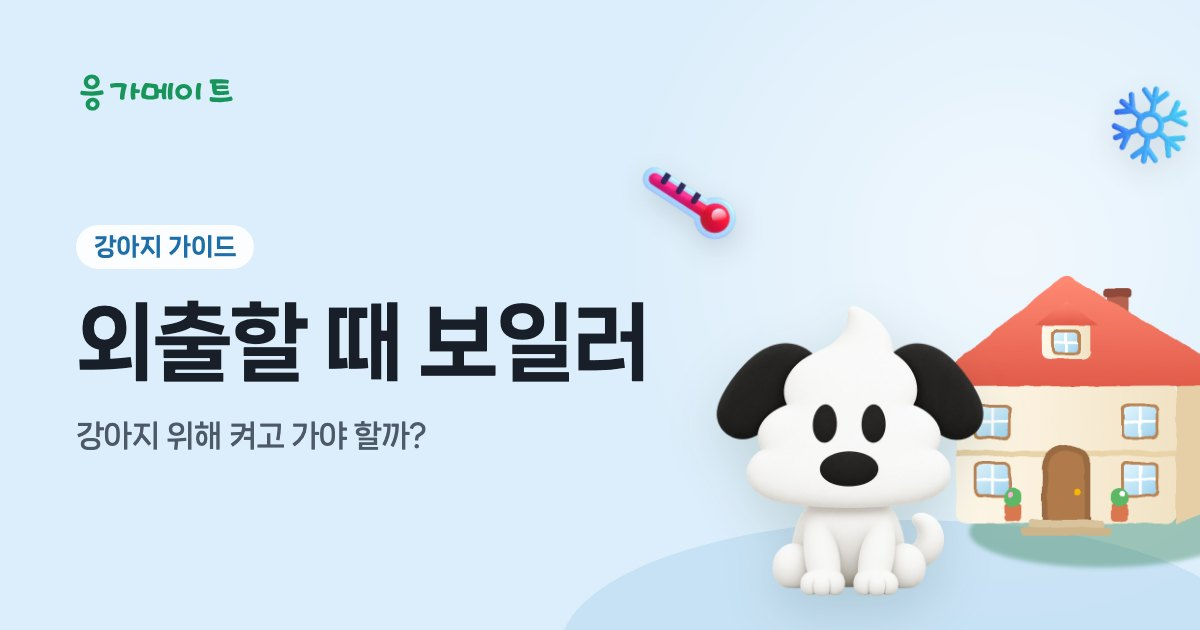
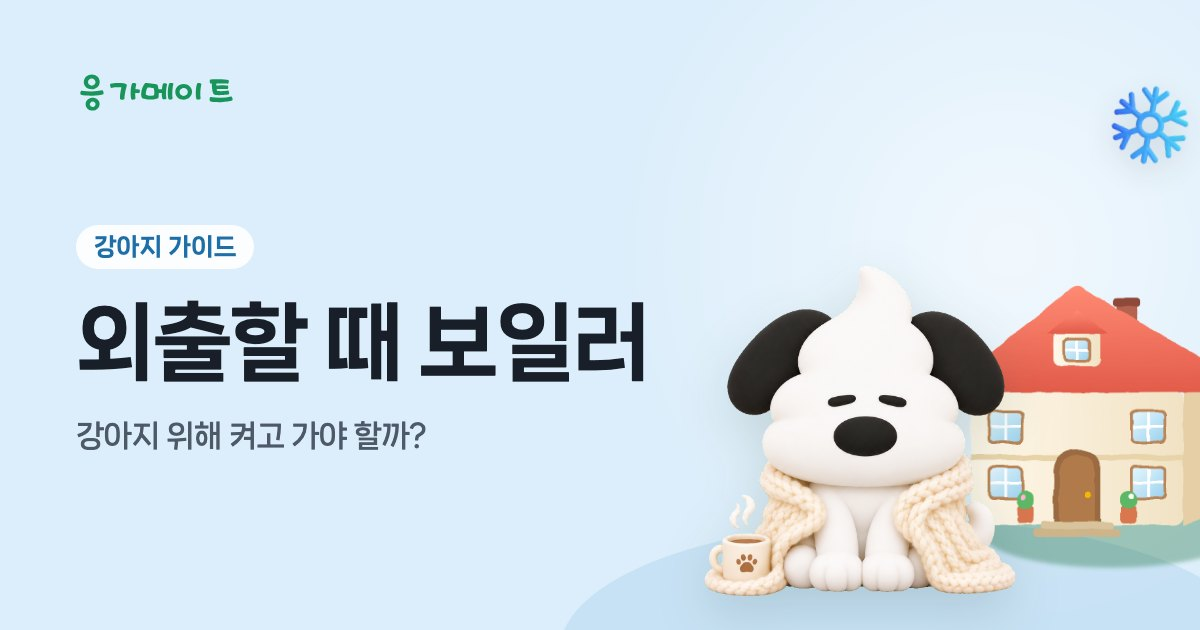
New 응댕이 poses (blanket, leaves) for the heating and dry-leaves guides

diff --git a/leave-heating-on-for-dog/index.html b/leave-heating-on-for-dog/index.html
@@ -114,7 +114,7 @@ posthog.init('phc_vCXzLCCFmhfLTks3Cn4ZNK99JiPnmcwByxnnhCApaVt7',{api_host:'https
 <h1 class="g-h1">외출할 때 보일러<span>강아지 위해 켜고 가야 할까?</span></h1>
 <p class="g-lede">외출할 때 보일러를 완전히 끄기보다는 <b>외출 모드나 낮은 온도로 켜 두는 쪽</b>이 무난해요. 강아지는 보통 실내 18~22도 정도를 편하게 느낀다고 알려져 있고, 퍼피·노령견·소형견·털이 짧은 아이는 추위에 더 약해요. 반대로 바닥이 너무 뜨거우면 저온 화상과 탈수가 생길 수 있어서, 따뜻한 곳과 시원한 곳을 둘 다 만들어 주는 게 핵심이에요.</p>
 <p class="g-meta"><span>5분 읽기</span><span>업데이트 2026.10.30</span></p>
-</div><div class="g-art"><img class="g-pose" src="/assets/img/mascot/sit.webp" alt="" width="480" height="522"></div></div>
+</div><div class="g-art"><img class="g-pose" src="/assets/img/mascot/blanket.webp" alt="" width="480" height="509"></div></div>
 </div></section>
 <div class="wrap-g g-body">
 <aside class="g-toc" aria-label="이 글의 순서"><b>이 글의 순서</b><ol><li><a href="#s1">꺼도 되는 집, 켜 두는 게 좋은 집</a></li><li><a href="#s2">추위에 더 약한 강아지</a></li><li><a href="#s3">너무 뜨거워도 문제예요</a></li><li><a href="#s4">보일러 말고 이런 것도 챙겨요</a></li></ol></aside>

diff --git a/why-dogs-poop-on-dry-leaves/index.html b/why-dogs-poop-on-dry-leaves/index.html
@@ -114,7 +114,7 @@ posthog.init('phc_vCXzLCCFmhfLTks3Cn4ZNK99JiPnmcwByxnnhCApaVt7',{api_host:'https
 <h1 class="g-h1">강아지가 마른 낙엽 위에서 응가하는 걸 좋아하는 이유</h1>
 <p class="g-lede">가을 산책길에서 강아지가 꼭 마른 낙엽 더미에서 멈추는 건 이상한 게 아니에요. 낙엽에는 다른 강아지들의 냄새가 오래 쌓여 있고, 푹신해서 자세를 잡기 편하며 발에 똥이 덜 묻기 때문이라고 알려져 있어요. 어릴 때 처음 싼 바닥 느낌을 계속 찾는 습관도 한몫해요.</p>
 <p class="g-meta"><span>4분 읽기</span><span>업데이트 2026.10.30</span></p>
-</div><div class="g-art"><img class="g-pose" src="/assets/img/mascot/pooping.webp" alt="" width="480" height="468"></div></div>
+</div><div class="g-art"><img class="g-pose" src="/assets/img/mascot/leaves.webp" alt="" width="480" height="538"></div></div>
 </div></section>
 <div class="wrap-g g-body">
 <aside class="g-toc" aria-label="이 글의 순서"><b>이 글의 순서</b><ol><li><a href="#s1">낙엽 위를 좋아하는 이유 4가지</a></li><li><a href="#s2">싸기 전에 빙글빙글 도는 이유</a></li><li><a href="#s3">낙엽 더미에서 조심할 것</a></li><li><a href="#s4">낙엽 위 똥, 깔끔하게 치우는 법</a></li></ol></aside>

diff --git a/src/og_scenes.py b/src/og_scenes.py
@@ -68,14 +68,14 @@ SCENES = {
     'potty-interval': ('cream', [lay('광장/시계탑.png', 1130, 420, b=40, z=1), dog('clock', 880, 320, b=40), poop('color-brown', 700, 80, b=40)]),
     'outdoor-potty-dog-tracking': ('sky', [lay('나무/나무_11.png', 800, 230, b=110, z=1), lay('나무/나무_06.png', 1140, 250, b=100, z=1), dog('phone', 960, 320, b=40)]),
     'jindo-mix-potty-training': ('peach', [dog('baby', 760, 180, b=40), dog('귀쫑긋', 1020, 330, b=40)]),
-    'why-dogs-poop-on-dry-leaves': ('gold', [lay('나무/나무_08.png', 1120, 240, b=100, z=1), lay('장소/똥스팟.png', 900, 120, b=24, z=1), dog('응가중', 910, 280, b=60),
+    'why-dogs-poop-on-dry-leaves': ('gold', [lay('나무/나무_08.png', 1120, 240, b=100, z=1), dog('leaves', 930, 330, b=40),
                                              lay('소품/단풍잎.png', 700, 60, b=360, r=-25, z=7), lay('소품/나뭇잎.png', 780, 48, b=450, r=30, z=7), lay('소품/단풍잎.png', 1160, 54, b=420, r=15, z=7),
                                              lay('소품/나뭇잎.png', 1060, 40, b=40, r=-50, z=7), lay('소품/단풍잎.png', 760, 44, b=36, r=70, z=7)]),
     # ── 산책·가족 가이드
     'multi-dog-household-tracking': ('pink', [dog('배보여주기', 1040, 250, b=40), dog('baby-walk', 790, 200, b=40)]),
     'share-dog-potty-log-with-family': ('cream', [lay('건물/우리집.png', 1080, 300, b=56, z=1), dog('letter', 820, 320, b=34)]),
     'dual-income-dog-walk-schedule': ('sky', [lay('건물/카페.png', 1090, 300, b=56, z=1), dog('laptop', 830, 300, b=38)]),
-    'leave-heating-on-for-dog': ('sky', [lay('건물/우리집.png', 1090, 300, b=56, z=1), dog('앉아있기', 850, 290, b=34), emo('snowflake', 1150, 90, 460, r=10), emo('thermometer', 690, 96, 380, r=-12)]),
+    'leave-heating-on-for-dog': ('sky', [lay('건물/우리집.png', 1100, 290, b=56, z=1), dog('blanket', 860, 330, b=34), emo('snowflake', 1150, 90, 460, r=10)]),
     # ── 목록 · 브랜드
     'guide': ('mint', [lay('광장/게시판.png', 1110, 260, b=56, z=1), lay('나무/나무_09.png', 790, 210, b=100, z=1), dog('안녕', 930, 320, b=34)]),
     'how-it-works': ('green', [dog('phone', 950, 340, b=44)]),
